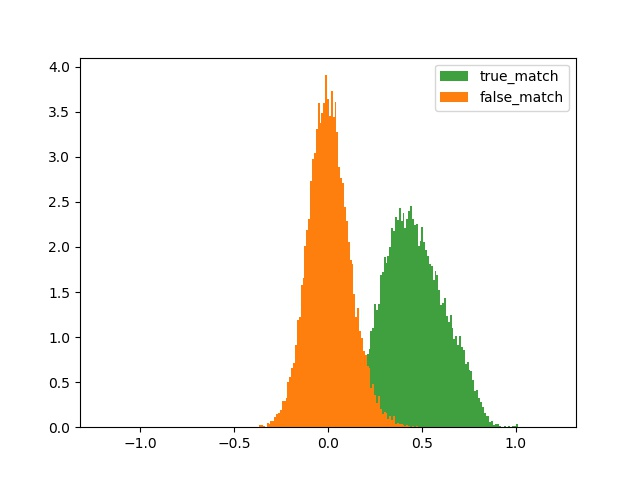
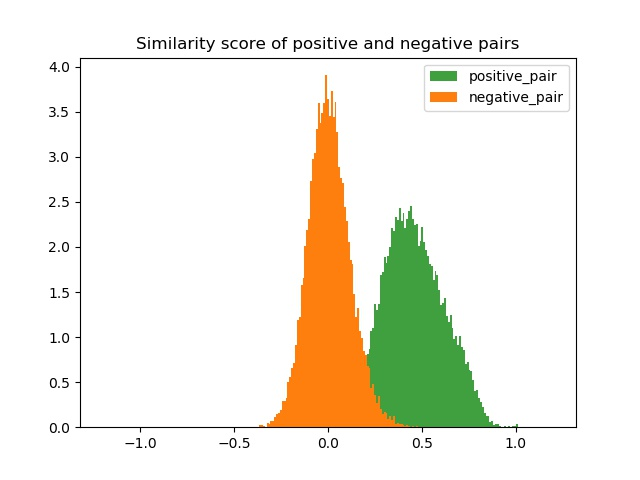
Minor changes to figures !

Changed region(s): [[0.2188, 0.0625, 0.875, 0.2188]]

diff --git a/roc.py b/roc.py
@@ -7,7 +7,7 @@ from sklearn.metrics import roc_curve, auc, roc_auc_score
 
 wav_list='/scratch_net/biwidl09/hmahdi/VoxCeleb/Identification_split.txt'
 base_address='/scratch_net/biwidl09/hmahdi/VoxCeleb/voxceleb1_wav/'
-embedding_file="embeddings/LM-512D.npy"
+embedding_file="embeddings/LM_512D.npy"
 
 if __name__ == '__main__':
 
@@ -56,8 +56,9 @@ if __name__ == '__main__':
 	print("There are %d matching pairs and %d non-matching pairs" % (len(true_match),len(false_match)))
 
 	bins = np.linspace(-1.2, 1.2, 240)
-	plt.hist(true_match, bins,  density=True, facecolor='g', alpha=0.75,label='true_match')
-	plt.hist(false_match, bins,  density=True, label='false_match')
+	plt.hist(true_match, bins,  density=True, facecolor='g', alpha=0.75,label='positive_pair')
+	plt.hist(false_match, bins,  density=True,  label='negative_pair')
+	plt.title('Similarity score of positive and negative pairs')
 	plt.legend(loc='upper right')
 	plt.show()
 

diff --git a/rocVox.py b/rocVox.py
@@ -75,8 +75,9 @@ if __name__ == '__main__':
 	print("There are %d matching pairs and %d non-matching pairs" % (len(true_match),len(false_match)))
 
 	bins = np.linspace(-1.2, 1.2, 240)
-	plt.hist(true_match, bins,  density=True, facecolor='g', alpha=0.75,label='true_match')
-	plt.hist(false_match, bins,  density=True, label='false_match')
+	plt.hist(true_match, bins,  density=True, facecolor='g', alpha=0.75,label='positive_pair')
+	plt.hist(false_match, bins,  density=True, label='negative_pair')
+	plt.title('Similarity score of positive and negative pairs')
 	plt.legend(loc='upper right')
 	plt.show()
 

diff --git a/README.md b/README.md
@@ -18,7 +18,9 @@ In this work we first train a ResNet-20 with the typical softmax loss function a
 1. Request the audio files from *Nagrani et al.* and extract the wav files to a directory that would be refered to as *base_address*.
 
 2. Follow the instructions to *make* the caffe and pycaffe for each aforementioned caffe build, since they contain all the modules in a typical Caffe build there is no need to have Caffe pre-installed on your computer.
-Add Pycaffe's path to the *PYTHONPATH* environment variable by putting the following to the .bashrc "export PYTHONPATH={PATH_TO_CAFFE}/python"
+Add Pycaffe's path to the *PYTHONPATH* environment variable by putting the following to the .bashrc: 
+
+export PYTHONPATH={PATH_TO_CAFFE}/python
 
 3. Clone this directory
 
@@ -37,19 +39,18 @@ After training is finished the networks' coefficient and the state of solver wou
 3. If you have chosen the mode identification, you need to execute *testIdent.py* script. But before executing, please set the variable *net_weights* to caffemodel that you wish to evaluate and *net_prototxt* to prototxt file of structure of network in interest. Run the script, in the end of evaluation the top-1 and top-5 accuracy would be printed in the terminal similar to message below:
 
 The top1 accuracy on test set is 0.9447
-
 The top5 accuracy on test set is 0.9830
 
 4. If you wish to evaluate the verification accuracy of a model trained for the task of verification, you first need to extract the embeddings of utterances within the test set. In order to do so, open the *embedVerif.py* and set the *net_weights* to caffemodel that you wish to evaluate and *net_prototxt* to prototxt file of structure of network of interest. Remember to  set *embedding_file* to a proper name and directory for storing the resulting embedding. Run the *embedVerif.py*, it will take about half an hour to finish on a Titan Xp. The message "Embeddings of test utterances are stored in ..." will presented after successful completion.
 
 In order to evaluate the Equal Error Rate (EER) and minimum of detection cost function on pairs selected by Nagrani et al., set the *embedding_file* in rocVox.py to address of the embedding that you wish to evaluate and execute the script. Two figures will be displayed: The fist on shows the separation of true match (positive) and false match (negative) pairs:
-![picture](https://github.com/MahdiHajibabaei/unified-embedding/blob/master/figures/rocVox_pairs.jpeg)
+![picture](https://github.com/MahdiHajibabaei/unified-embedding/blob/master/figures/rocVox_pairs.jpeg =250x)
 
 
 The second figure shows the ROC of the embeddings:
 
 
-![picture](https://github.com/MahdiHajibabaei/unified-embedding/blob/master/figures/rocVox_ROC.jpeg)
+![picture](https://github.com/MahdiHajibabaei/unified-embedding/blob/master/figures/rocVox_ROC.jpeg =250x)
 
 
 
